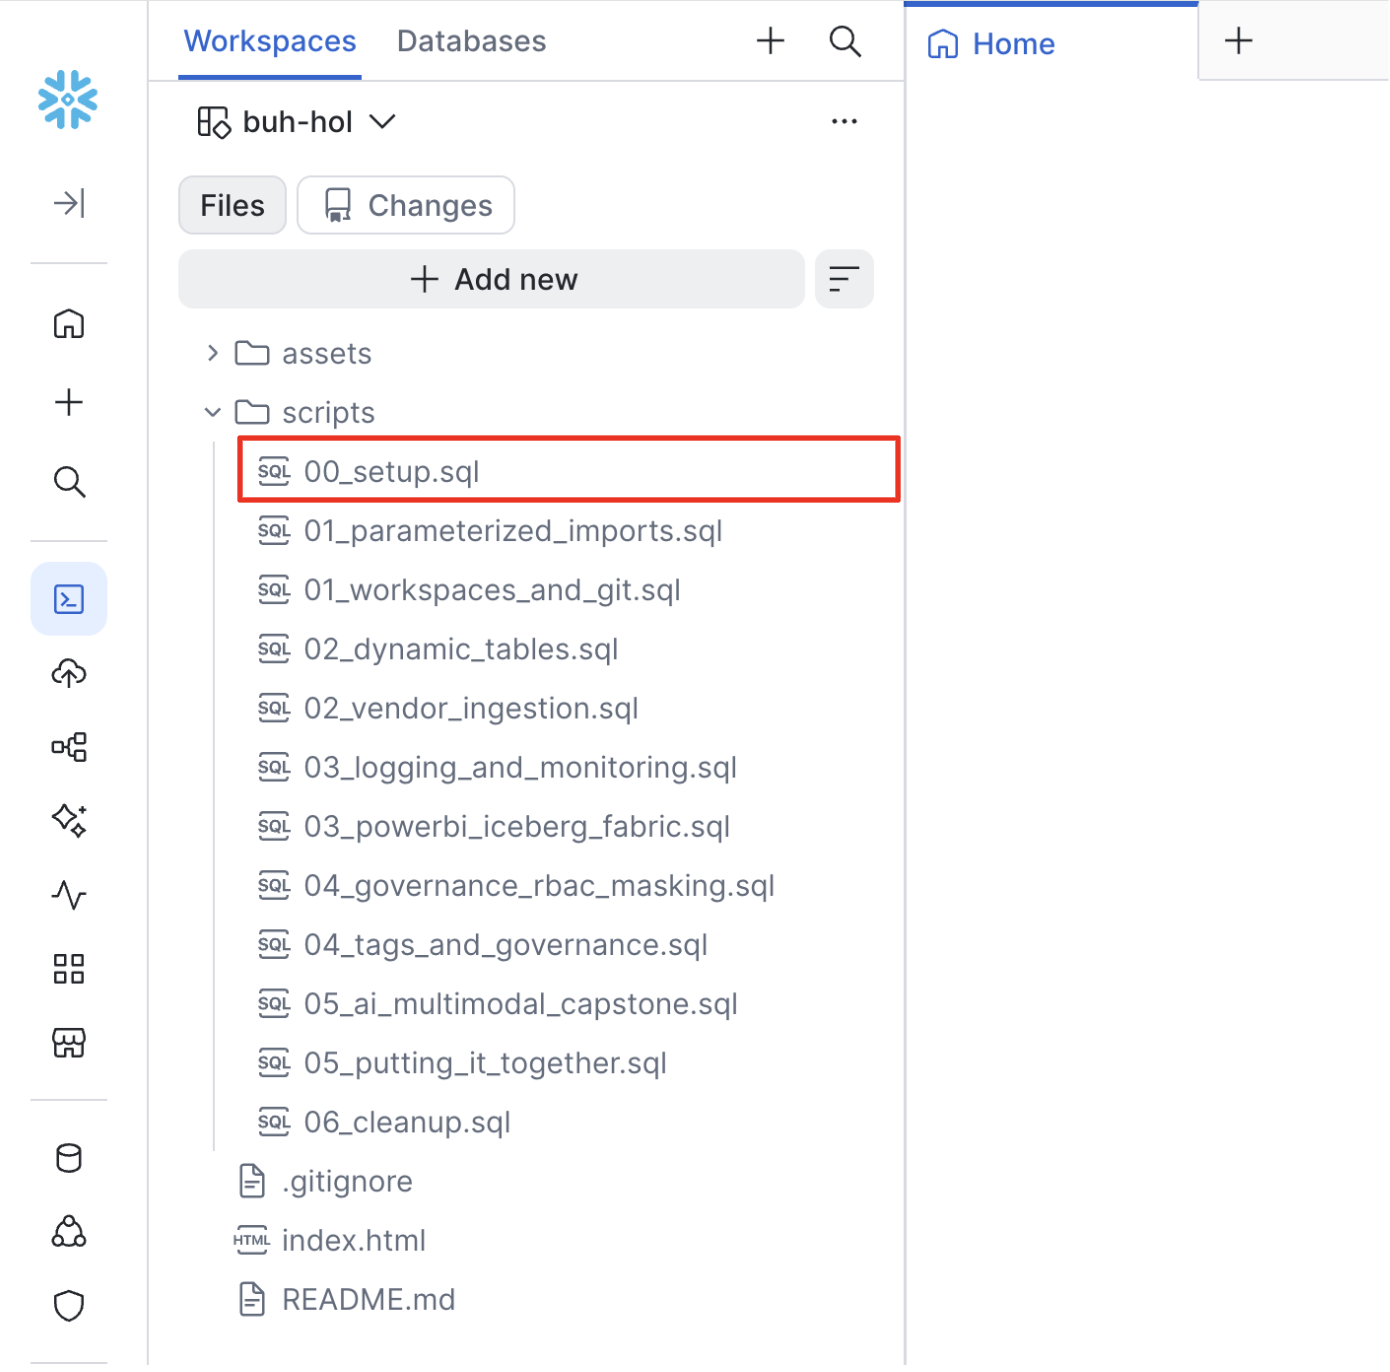
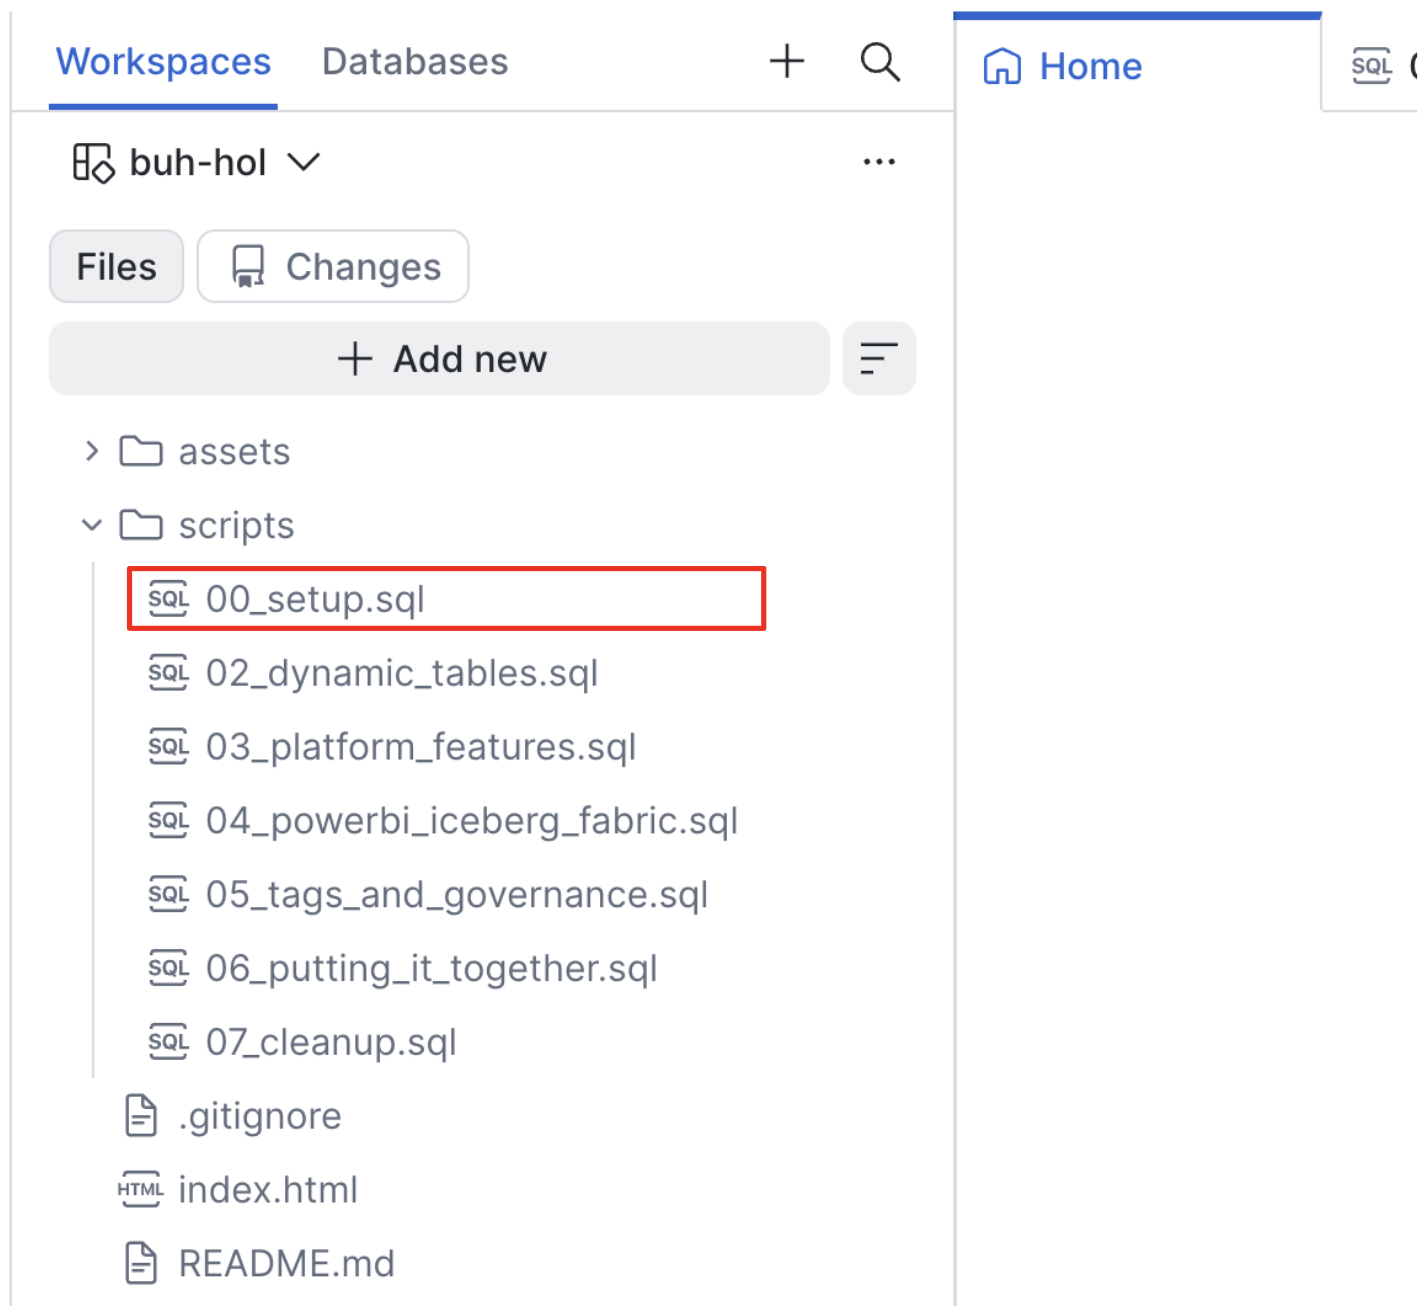
Step 1: replace CoCo prompt with Run All worksheet instructions

diff --git a/index.html b/index.html
@@ -407,22 +407,13 @@ so I can use it as a file source during this lab.
             <span class="badge badge-script">00_setup.sql</span>
           </div>
 
-          <p>Now that your workspace is connected, use Cortex Code to run the setup script and build your entire lab environment in one shot.</p>
+          <p>Now that your workspace is connected, run the setup script to build your entire lab environment in one shot.</p>
 
-          <h3>1.1 Run the Setup Script via CoCo</h3>
-          <p>Copy and paste this prompt into Cortex Code:</p>
-          <div class="code-block">
-            <div class="code-header"><span>CoCo Prompt &ndash; Execute setup script</span><button class="copy-btn">&#x1F4CB; Copy</button></div>
-            <pre>Open the file scripts/00_setup.sql from the buh-hol Git workspace
-and run the full script. It creates the BUH_HOL database, warehouse,
-roles, schemas, and loads all sample data.
-
-After execution, show me a summary table of every table in the
-INBOUND schema with its row count so I can confirm everything
-loaded correctly.</pre>
-          </div>
+          <h3>1.1 Run the Setup Script</h3>
+          <p>Open <strong>scripts/00_setup.sql</strong> in your Git workspace, then click the <strong>Run All</strong> button in the top-right corner of the worksheet. This executes every statement in the file sequentially.</p>
+          <p><img alt="Run All button in worksheet" src="assets/img/run-all.png" style="max-width:600px; width:100%; border-radius:8px;"></p>
           <div class="callout callout-info">
-            <strong>What's happening:</strong> CoCo reads the setup script from your Git workspace and executes the SQL. The script creates the BUH_HOL database with INBOUND, CORE_DATA, DATAMARTS, and GOVERNANCE schemas, plus synthetic data from three source systems: Epic Clarity (patients, encounters, providers, orders, diagnoses), Strata Decision Support (department budgets), and Workday Procurement (purchase orders).
+            <strong>What's happening:</strong> The setup script creates the BUH_HOL database with INBOUND, CORE_DATA, DATAMARTS, and GOVERNANCE schemas, plus synthetic data from three source systems: Epic Clarity (patients, encounters, providers, orders, diagnoses), Strata Decision Support (department budgets), and Workday Procurement (purchase orders).
           </div>
 
           <div class="expected-output">
